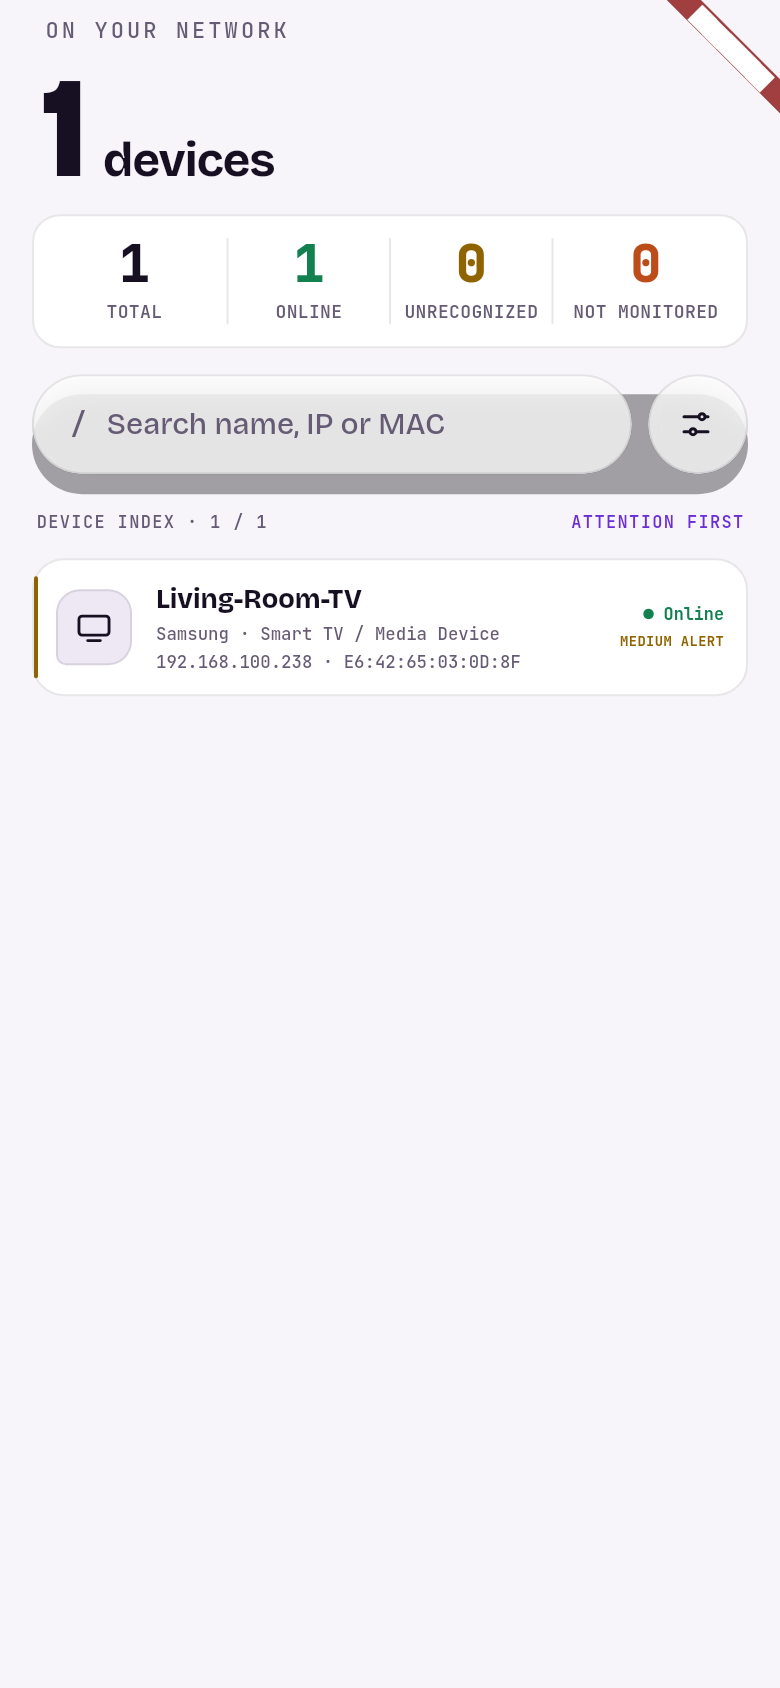
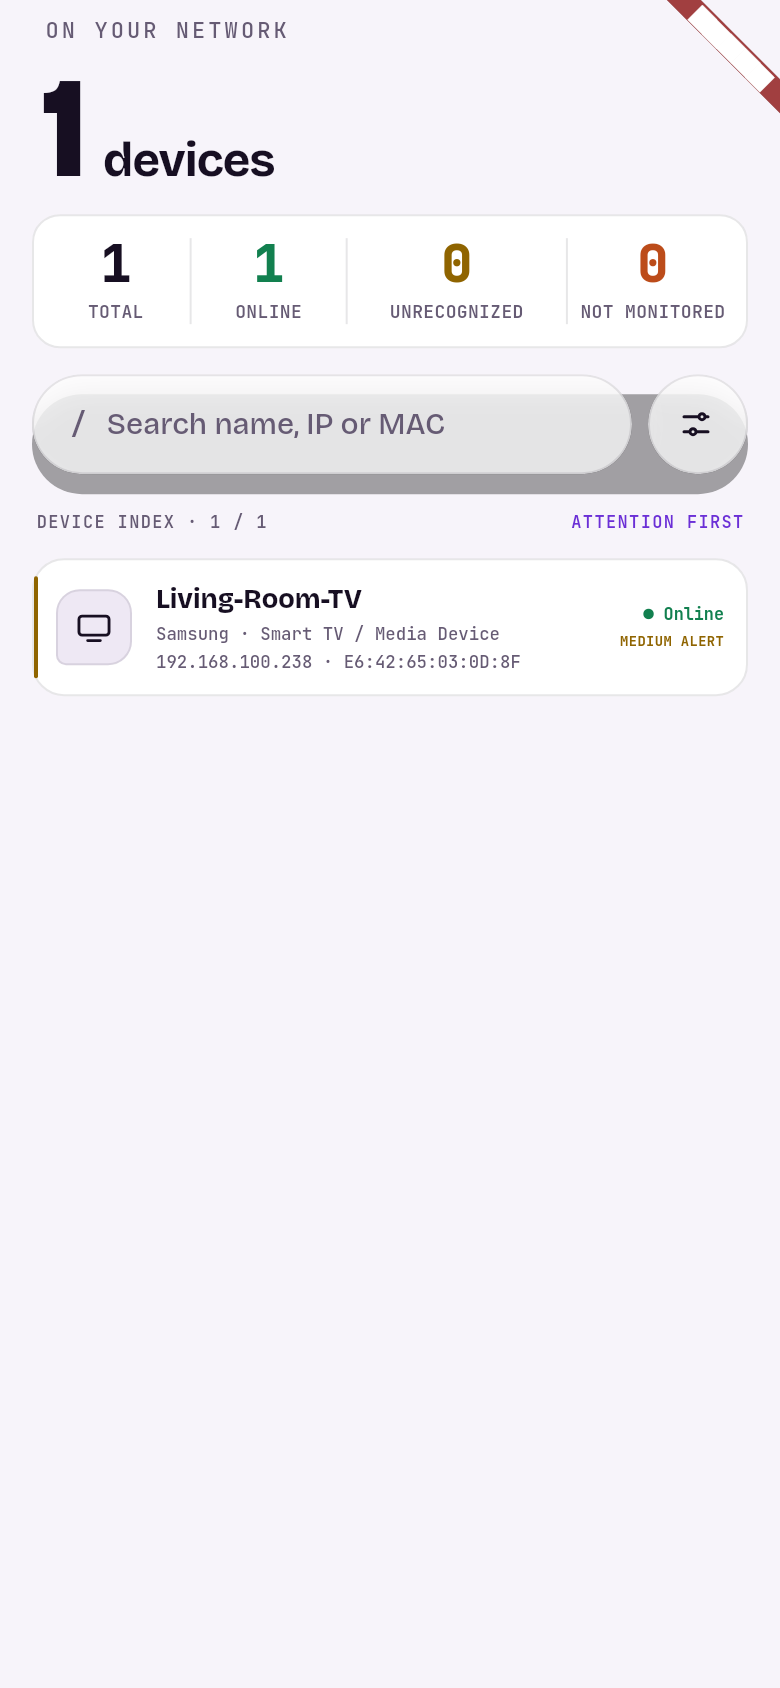
fix(ui): layouts adapt to text size by expanding/wrapping, not clipping or shrinking
- Device-details title: breakName() inserts invisible break opportunities at
  name separators (_ - ( .) so machine-style tokens like
  'emulator (sdk_gphone64_x86_64)' wrap at natural points instead of mid-word;
  the column grows (visible text unchanged).
- Settings hardware card cells: values wrap (with address break points incl.
  '/') instead of maxLines:1 + ellipsis — Local address is never clipped; rows
  grow with the text.
- Device-list stat labels: FittedBox shrink-to-fit removed — labels keep their
  designed size and wrap; cell widths rebalanced to the longest single word so
  UNRECOGNIZED fits unbroken at the largest size and NOT MONITORED wraps at
  its space; the IntrinsicHeight card grows.
No text/content changes; no features added or hidden.

Tests: layout_scaling_transition_test.dart drives LIVE smallest<->largest
transitions (app zoom x system scale together, both directions, no rebuild)
for device details / device list / settings, checking during and after each
animation; full-label presence asserted at max size. Comparison goldens
scale-{device-details,device-list,settings}-{small,large}.png generated and
copied to evidence/ui/. Mobile 79 passed, analyze clean.

diff --git a/app/mobile/test/layout_scaling_transition_test.dart b/app/mobile/test/layout_scaling_transition_test.dart
@@ -1,0 +1,128 @@
+// Layout must adapt to text sizes by EXPANDING and WRAPPING — not by clipping,
+// fixed heights or shrinking fonts. These tests drive a LIVE transition between
+// the smallest (app zoom 1.0 × system 0.85) and largest (zoom 1.2 × system 1.3)
+// combinations — in both directions, without rebuilding the screen — and check
+// during and after each animation. Fixtures include the real problem cases: a
+// machine-style long device name and address-like values.
+import 'package:assas_core/assas_core.dart';
+import 'package:assas_mobile/screens/devices/device_details_screen.dart';
+import 'package:assas_mobile/screens/devices/device_list_screen.dart';
+import 'package:assas_mobile/screens/settings/settings_screen.dart';
+import 'package:assas_mobile/state/app_state.dart';
+import 'package:assas_mobile/theme/assas_ui.dart';
+import 'package:assas_mobile/widgets/design_scale.dart';
+import 'package:flutter/material.dart';
+import 'package:flutter/services.dart';
+import 'package:flutter_test/flutter_test.dart';
+import 'package:shared_preferences/shared_preferences.dart';
+
+const _mac = 'e6:42:65:03:0d:8f';
+
+class _Repo extends DemoRepository {
+  final Device _dev = const Device(
+    mac: _mac,
+    ip: '192.168.100.238',
+    ipv6: ['2001:16a2:c83e:5700:78f5:8a3d:cbf4:b5fe'],
+    hostname: '0badc396-c1f4-40db-ba83-c0702b11ae58', // opaque -> model shown
+    model: 'emulator (sdk_gphone64_x86_64)', // the mid-word-break case
+    vendor: 'A Rather Long Vendor Name Incorporated',
+    deviceType: 'Computer',
+    presence: Presence.online, trusted: false, monitored: false,
+  );
+  @override
+  Future<List<Device>> getDevices() async => [_dev];
+  @override
+  Future<Device> getDevice(String mac) async => _dev;
+}
+
+Future<void> _loadFonts() async {
+  for (final f in ['BricolageGrotesque', 'JetBrainsMono']) {
+    final l = FontLoader(f == 'BricolageGrotesque' ? 'Bricolage Grotesque' : 'JetBrains Mono');
+    l.addFont(rootBundle.load('assets/fonts/$f.ttf'));
+    await l.load();
+  }
+}
+
+Future<void> _transition(WidgetTester tester, Widget Function() build,
+    {double width = 320}) async {
+  addTearDown(tester.view.reset);
+  tester.view.devicePixelRatio = 1;
+  tester.view.physicalSize = Size(width, 1200);
+  final zoom = ValueNotifier<double>(1.0);
+  final scale = ValueNotifier<double>(0.85);
+  addTearDown(zoom.dispose);
+  addTearDown(scale.dispose);
+  await tester.pumpWidget(MaterialApp(
+    theme: MobileTheme.light,
+    home: ListenableBuilder(
+      listenable: Listenable.merge([zoom, scale]),
+      builder: (context, _) => MediaQuery(
+        data: MediaQuery.of(context).copyWith(textScaler: TextScaler.linear(scale.value)),
+        child: DesignScale(zoom: zoom.value, child: Material(color: Ui.bg, child: build())),
+      ),
+    ),
+  ));
+  await tester.pump(const Duration(milliseconds: 350)); // settle async loads
+  expect(tester.takeException(), isNull, reason: 'initial smallest');
+
+  // smallest -> largest -> smallest -> largest, live, checking mid + settled.
+  for (final (z, s) in [(1.2, 1.3), (1.0, 0.85), (1.2, 1.3)]) {
+    zoom.value = z;
+    scale.value = s;
+    await tester.pump();
+    expect(tester.takeException(), isNull, reason: 'during -> zoom=$z scale=$s');
+    await tester.pump(const Duration(milliseconds: 120));
+    expect(tester.takeException(), isNull, reason: 'mid-anim -> zoom=$z scale=$s');
+    await tester.pump(const Duration(milliseconds: 320));
+    expect(tester.takeException(), isNull, reason: 'settled -> zoom=$z scale=$s');
+  }
+  await tester.pumpWidget(const SizedBox());
+}
+
+void main() {
+  testWidgets('Device details: long machine-style name transitions without overflow',
+      (tester) async {
+    SharedPreferences.setMockInitialValues({});
+    await _loadFonts();
+    final s = AppState(_Repo());
+    addTearDown(s.dispose);
+    await tester.runAsync(s.refresh);
+    await _transition(tester, () => DeviceDetailsScreen(state: s, mac: _mac));
+  });
+
+  testWidgets('Device list: stat labels stay readable (wrapped, not shrunk)',
+      (tester) async {
+    SharedPreferences.setMockInitialValues({});
+    await _loadFonts();
+    final s = AppState(_Repo());
+    addTearDown(s.dispose);
+    await tester.runAsync(s.refresh);
+    await _transition(tester, () => DeviceListScreen(state: s));
+    // The full labels are rendered as text (no FittedBox shrink-to-fit): the
+    // same Text widgets exist at any size, wrapping instead of scaling.
+    tester.view.devicePixelRatio = 1;
+    tester.view.physicalSize = const Size(320, 1200);
+    await tester.pumpWidget(MaterialApp(
+      theme: MobileTheme.light,
+      home: Builder(builder: (c) => MediaQuery(
+        data: MediaQuery.of(c).copyWith(textScaler: const TextScaler.linear(1.3)),
+        child: DesignScale(zoom: 1.2, child: Material(color: Ui.bg, child: DeviceListScreen(state: s))),
+      )),
+    ));
+    await tester.pump(const Duration(milliseconds: 350));
+    expect(find.text('UNRECOGNIZED'), findsWidgets);
+    expect(find.text('NOT MONITORED'), findsWidgets);
+    expect(tester.takeException(), isNull);
+    await tester.pumpWidget(const SizedBox());
+  });
+
+  testWidgets('Settings: hardware card values wrap instead of clipping',
+      (tester) async {
+    SharedPreferences.setMockInitialValues({});
+    await _loadFonts();
+    final s = AppState(_Repo());
+    addTearDown(s.dispose);
+    await tester.runAsync(s.refresh);
+    await _transition(tester, () => SettingsScreen(state: s));
+  });
+}

diff --git a/app/mobile/test/ui_goldens_test.dart b/app/mobile/test/ui_goldens_test.dart
@@ -128,4 +128,56 @@ void main() {
 
   testWidgets('pairing-narrow-maxzoom', (t) => narrow(t, 'pairing-narrow', const PairingScreen()), skip: !gen);
   testWidgets('splash-narrow-maxzoom', (t) => narrow(t, 'splash-narrow', const SplashGate(child: SizedBox())), skip: !gen);
+
+  // Scaling comparison pairs (smallest vs largest supported text) with the
+  // layout-adaptation problem cases: a machine-style long device name, an
+  // address value in the settings hardware card, and the stat labels.
+  Future<void> scalePair(WidgetTester tester, String name,
+      Widget Function(AppState) build) async {
+    for (final (tag, zoom, scale) in [('small', 1.0, 0.85), ('large', 1.2, 1.3)]) {
+      SharedPreferences.setMockInitialValues({});
+      for (final f in ['BricolageGrotesque', 'JetBrainsMono']) {
+        final l = FontLoader(f == 'BricolageGrotesque' ? 'Bricolage Grotesque' : 'JetBrains Mono');
+        l.addFont(rootBundle.load('assets/fonts/$f.ttf'));
+        await l.load();
+      }
+      final s = AppState(_ScaleRepo());
+      addTearDown(s.dispose);
+      await tester.runAsync(s.refresh);
+      addTearDown(tester.view.reset);
+      tester.view.devicePixelRatio = 2;
+      tester.view.physicalSize = const Size(390 * 2, 1000 * 2);
+      await tester.pumpWidget(MaterialApp(
+        theme: MobileTheme.light,
+        home: Builder(builder: (c) => MediaQuery(
+          data: MediaQuery.of(c).copyWith(textScaler: TextScaler.linear(scale)),
+          child: DesignScale(zoom: zoom, child: Material(color: Ui.bg, child: build(s))),
+        )),
+      ));
+      await tester.pump(const Duration(milliseconds: 400));
+      await expectLater(find.byType(MaterialApp), matchesGoldenFile('goldens/$name-$tag.png'));
+      await tester.pumpWidget(const SizedBox());
+    }
+  }
+
+  testWidgets('scale-device-details', (t) => scalePair(t, 'scale-device-details',
+      (s) => DeviceDetailsScreen(state: s, mac: _mac)), skip: !gen);
+  testWidgets('scale-device-list', (t) => scalePair(t, 'scale-device-list',
+      (s) => DeviceListScreen(state: s)), skip: !gen);
+  testWidgets('scale-settings', (t) => scalePair(t, 'scale-settings',
+      (s) => SettingsScreen(state: s)), skip: !gen);
+}
+
+class _ScaleRepo extends DemoRepository {
+  final Device _dev = const Device(
+    mac: _mac,
+    ip: '192.168.100.238',
+    ipv6: ['2001:16a2:c83e:5700:78f5:8a3d:cbf4:b5fe'],
+    hostname: '0badc396-c1f4-40db-ba83-c0702b11ae58', // opaque -> model shown
+    model: 'emulator (sdk_gphone64_x86_64)',
+    vendor: 'Google', deviceType: 'Computer',
+    presence: Presence.online, trusted: false, monitored: false,
+  );
+  @override Future<List<Device>> getDevices() async => [_dev];
+  @override Future<Device> getDevice(String mac) async => _dev;
 }

diff --git a/app/mobile/lib/screens/devices/device_list_screen.dart b/app/mobile/lib/screens/devices/device_list_screen.dart
@@ -249,13 +249,16 @@ class _DeviceListScreenState extends State<DeviceListScreen> {
           child: IntrinsicHeight(
             child: Row(
               children: [
-                _overviewCell(115, '${state.totalCount}', 'TOTAL', Ui.ink),
+                // Widths follow the longest single word of each label so
+                // "UNRECOGNIZED" fits unbroken at the largest text size;
+                // two-word labels wrap at their space.
+                _overviewCell(92, '${state.totalCount}', 'TOTAL', Ui.ink),
                 _divider(),
-                _overviewCell(100, '${state.onlineCount}', 'ONLINE', Ui.low),
+                _overviewCell(96, '${state.onlineCount}', 'ONLINE', Ui.low),
                 _divider(),
-                _overviewCell(100, '${state.unrecognizedCount}', 'UNRECOGNIZED', Ui.med),
+                _overviewCell(136, '${state.unrecognizedCount}', 'UNRECOGNIZED', Ui.med),
                 _divider(),
-                _overviewCell(115, '$notMonitored', 'NOT MONITORED', Ui.high),
+                _overviewCell(106, '$notMonitored', 'NOT MONITORED', Ui.high),
               ],
             ),
           ),
@@ -270,9 +273,14 @@ class _DeviceListScreenState extends State<DeviceListScreen> {
           children: [
             Text(value, style: UiText.overviewNumber.copyWith(color: color)),
             const SizedBox(height: 5),
-            FittedBox(
-              fit: BoxFit.scaleDown,
-              child: Text(label, style: UiText.overviewLabel.copyWith(color: Ui.mute)),
+            // The label wraps to a second line at large text sizes instead of
+            // being scaled down to an unreadable size; the card (IntrinsicHeight
+            // row) grows with it.
+            Text(
+              label,
+              textAlign: TextAlign.center,
+              softWrap: true,
+              style: UiText.overviewLabel.copyWith(color: Ui.mute),
             ),
           ],
         ),

diff --git a/app/mobile/lib/widgets/ui_kit.dart b/app/mobile/lib/widgets/ui_kit.dart
@@ -648,7 +648,13 @@ class PillButton extends StatelessWidget {
 /// Insert zero-width spaces after `:`/`.` so long addresses (esp. IPv6) wrap at
 /// group boundaries instead of being clipped or broken mid-group. Display only;
 /// copy uses the raw value.
-String breakAddress(String v) => v.replaceAllMapped(RegExp(r'[:.]'), (m) => '${m[0]}');
+String breakAddress(String v) => v.replaceAllMapped(RegExp(r'[:./]'), (m) => '${m[0]}');
+
+/// Inserts invisible break opportunities (ZWSP) after a name's natural
+/// separators so a long single token ("emulator (sdk_gphone64_x86_64)") wraps
+/// at `_`/`-`/`(`/`.` instead of breaking mid-word. The visible text is
+/// unchanged.
+String breakName(String v) => v.replaceAllMapped(RegExp(r'[_\-(.]'), (m) => '${m[0]}');
 
 class SpecList extends StatelessWidget {
   const SpecList({

diff --git a/app/mobile/lib/screens/devices/device_details_screen.dart b/app/mobile/lib/screens/devices/device_details_screen.dart
@@ -152,7 +152,10 @@ class _DeviceDetailsScreenState extends State<DeviceDetailsScreen> {
                     padding: const EdgeInsets.symmetric(horizontal: UiSpace.pageText),
                     child: Column(
                       children: [
-                        Text(d.displayName, textAlign: TextAlign.center, style: UiText.deviceName),
+                        // breakName: wrap long machine-style tokens at their
+                        // separators instead of mid-word; the column grows.
+                        Text(breakName(d.displayName),
+                            textAlign: TextAlign.center, style: UiText.deviceName),
                         const SizedBox(height: 8),
                         Pressable(
                           onTap: _saving ? null : () => _rename(d),

diff --git a/app/mobile/lib/screens/settings/settings_screen.dart b/app/mobile/lib/screens/settings/settings_screen.dart
@@ -398,10 +398,11 @@ class _SettingsScreenState extends State<SettingsScreen> {
           children: [
             Text(k, style: UiText.mono(8.5, 500, color: Ui.mute)),
             const SizedBox(height: 3),
+            // Wraps (at address separators) instead of clipping: the row grows
+            // with the text size; no ellipsis, no font shrinking.
             Text(
-              v,
-              maxLines: 1,
-              overflow: TextOverflow.ellipsis,
+              breakAddress(v),
+              softWrap: true,
               style: UiText.mono(10.5, 600, color: color ?? Ui.ink),
             ),
           ],
